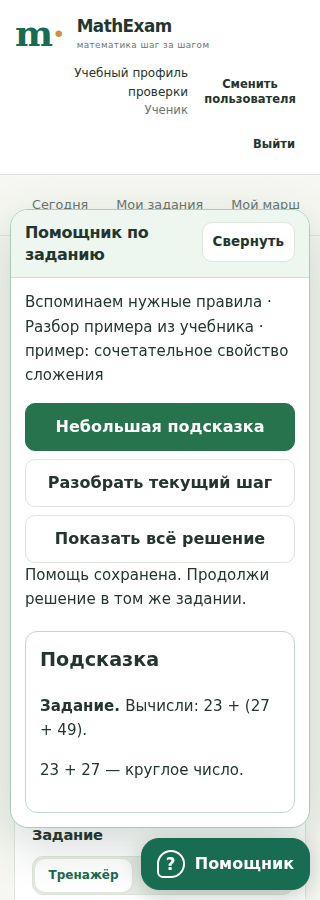
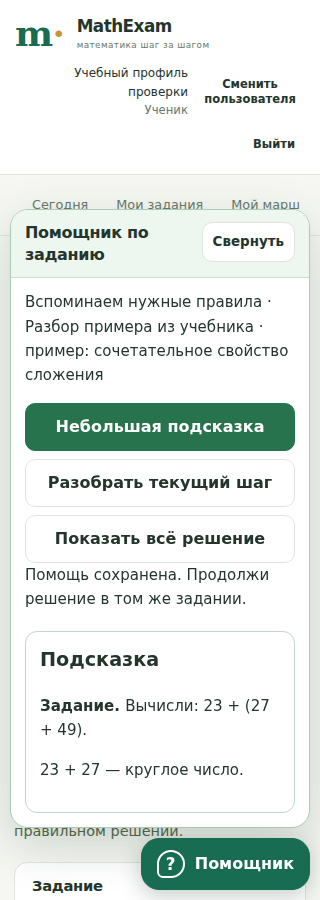
fix(learning): keep course catalogue return available in teacher and history views

Changed region(s): [[0.0625, 0.9022, 0.5625, 0.9333], [0.0938, 0.9644, 0.4375, 0.9956]]

diff --git a/learning/app.js b/learning/app.js
@@ -736,7 +736,18 @@ function updateOverview(){if(!overview||!activeLesson)return;if(overview.waiting
  $('sheet-tabs').innerHTML=Array.from({length:Math.ceil(seats.length/4)},(_,i)=>`<button data-sheet="${i}" aria-current="${sheet===i?'page':'false'}">Ученики ${i*4+1}–${Math.min(i*4+4,seats.length)}</button>`).join('');$('sheet-tabs').querySelectorAll('[data-sheet]').forEach(b=>b.onclick=()=>{sheet=Number(b.dataset.sheet);updateOverview();});}
 function lessonAssignmentDialog(selectedIds){if(credentialDisplay||credentialRequestBusy)return;const selected=selectedIds||activeLesson.seats.map(s=>s.learnerId);modal('Задание на урок',`<form id="lesson-assignment-form" class="form-stack"><label>Тренажёр<select name="content">${getItems().map(i=>`<option value="${E(i.id)}">${i.position?'№'+i.position+' · ':''}${E(i.title)}</option>`).join('')}</select></label><fieldset><legend>Ученики</legend><div class="checkbox-list">${[...activeLesson.seats,{learnerId:'common',name:'Общая доска'}].map(s=>`<label class="checkbox-row"><input type="checkbox" name="student" value="${E(s.learnerId)}" ${selected.includes(s.learnerId)?'checked':''}>${E(s.name)}</label>`).join('')}</div></fieldset><p>У каждого будет своя попытка с одинаковым условием.</p><p class="form-error" role="alert"></p><button class="primary" type="submit">Выдать на урок</button></form>`);bindAsyncForm('lesson-assignment-form',async form=>{const learnerIds=form.getAll('student');if(!learnerIds.length){$('lesson-assignment-form').querySelector('.form-error').textContent='Выберите ученика.';return;}const item=LearningCatalog.get(form.get('content'));const result=await lessonAction('assign',{learnerIds,trainerId:item.trainerId,contentId:item.contentId});if(!result)return;closeModal();await refreshData();updateOverview();toast('Задания подготовлены для урока.');});}
 function watchPanelMarkup(visible=true){return `<aside id="watch-panel" class="watch-panel" ${visible?'':'hidden'}><header class="watch-panel-header"><p class="eyebrow">ОБЩИЙ РАЗБОР</p><h2>Наталья Михайловна объясняет</h2><p id="watch-caption">Ваша личная работа сохраняется</p><button id="watch-expand" class="small">Развернуть объяснение ↗</button></header><div id="watch-placeholder" class="watch-placeholder">Когда преподаватель начнёт объяснение, здесь появится работа, которую разбирает группа.</div><div class="trainer-host" id="watch-trainer" hidden></div><div class="drawing-host" id="watch-drawing" hidden></div></aside>`;}
-function workspaceMarkup(a,lesson){const person=a.learnerId===a.teacherId?'Общая доска':students.find(s=>s.id===a.learnerId)?.name||account.name;return `<header class="workspace-heading"><a class="back-link" href="#${lesson?'lesson='+activeLesson.id:(window.ArithmeticCourse?.trackFor(a.contentId)||window.DivisionCourse?.has(a.contentId))?'division-course':'home'}" id="workspace-back">← ${lesson&&teacher()?'Все работы':lesson?'Мои занятия':(window.ArithmeticCourse?.trackFor(a.contentId)||window.DivisionCourse?.has(a.contentId))?'Умножение и деление':'Мой кабинет'}</a><div class="page-heading"><div><span class="badge neutral">${lesson?E(activeLesson.title)+' · '+E(person):teacher()?E(person):'Моя работа'}</span><h1>${E(titleFor(a))}</h1><p><span id="attempt-outcome">${E(labels[a.outcome]||'Начато')}</span> · <span id="save-state" class="save-state">Все изменения сохранены</span></p></div><div class="actions">${teacher()?'<button id="trainer-control">Подключиться к тренажёру</button>':''}${lesson&&teacher()?'<button id="present-work">Объяснять группе</button><button id="workspace-assign">Другое задание</button>':''}<button id="show-history">История решения</button><button id="conflict-download" hidden>Скачать неподтверждённое</button></div></div><p id="control-notice" class="notice" hidden></p><div id="archived-notice" class="notice" hidden>Результаты перенесены в архив. История решения сохранена. <a href="#course">Начать новую попытку в курсе →</a></div></header>${!teacher()&&a.trainerId!=='board'?'<section id="route-support" class="route-support" aria-label="Помощь и сдача работы"></section>':''}${lesson&&teacher()?'<nav id="workspace-roster" class="lesson-roster" aria-label="Переключить ученика"></nav>':''}<section id="history-bar" class="history-bar" hidden></section><div class="workspace-tabs segmented" role="group" aria-label="Работа и объяснение" ${lesson&&!teacher()?'':'hidden'}><button data-mobile-tab="own" aria-pressed="true">Моя работа</button><button data-mobile-tab="watch" aria-pressed="false">Наталья Михайловна объясняет</button></div><div class="work-columns" id="work-columns" data-mobile-view="own"><section class="work-panel"><header class="work-panel-header"><h2 id="work-panel-title">Задание</h2><div class="segmented" role="group" aria-label="Рабочее поле"><button data-work-view="trainer" aria-pressed="true">Тренажёр</button><button data-work-view="board" aria-pressed="false">Лист для решения</button></div></header><div class="trainer-host" id="trainer-host"></div><div id="drawing-panel" hidden><div class="board-tools" role="group" aria-label="Инструменты доски"><button id="pen" class="small" aria-pressed="true">Перо</button><button id="eraser" class="small" aria-pressed="false">Ластик</button><label><span class="sr-only">Цвет</span><input id="pen-color" type="color" value="${teacher()?'#16804c':'#23352d'}"></label><label>Толщина<input id="pen-width" type="range" min="1" max="12" value="3"></label><button id="undo-stroke" class="small">Отменить свой штрих</button></div><div class="drawing-host" id="drawing-host"></div></div></section>${watchPanelMarkup(lesson&&!teacher())}</div><div id="reference-host" class="reference-host"></div>`;}
+function workspaceMarkup(a,lesson){const person=a.learnerId===a.teacherId?'Общая доска':students.find(s=>s.id===a.learnerId)?.name||account.name;return `<header class="workspace-heading"><a class="back-link" href="#${lesson?'lesson='+activeLesson.id:(window.ArithmeticCourse?.trackFor(a.contentId)||window.DivisionCourse?.has(a.contentId))?'division-course':'home'}" id="workspace-back">← ${lesson&&teacher()?'Все работы':lesson?'Мои занятия':(window.ArithmeticCourse?.trackFor(a.contentId)||window.DivisionCourse?.has(a.contentId))?'Умножение и деление':'Мой кабинет'}</a><div class="page-heading"><div><span class="badge neutral">${lesson?E(activeLesson.title)+' · '+E(person):teacher()?E(person):'Моя работа'}</span><h1>${E(titleFor(a))}</h1><p><span id="attempt-outcome">${E(labels[a.outcome]||'Начато')}</span> · <span id="save-state" class="save-state">Все изменения сохранены</span></p></div><div class="actions">${a.trainerId==='vilenkin6-textbook'?'<a id="workspace-vilenkin-catalog" class="button" href="#vilenkin-textbook">← Все темы курса</a>':''}${teacher()?'<button id="trainer-control">Подключиться к тренажёру</button>':''}${lesson&&teacher()?'<button id="present-work">Объяснять группе</button><button id="workspace-assign">Другое задание</button>':''}<button id="show-history">История решения</button><button id="conflict-download" hidden>Скачать неподтверждённое</button></div></div><p id="control-notice" class="notice" hidden></p><div id="archived-notice" class="notice" hidden>Результаты перенесены в архив. История решения сохранена. <a href="#course">Начать новую попытку в курсе →</a></div></header>${!teacher()&&a.trainerId!=='board'?'<section id="route-support" class="route-support" aria-label="Помощь и сдача работы"></section>':''}${lesson&&teacher()?'<nav id="workspace-roster" class="lesson-roster" aria-label="Переключить ученика"></nav>':''}<section id="history-bar" class="history-bar" hidden></section><div class="workspace-tabs segmented" role="group" aria-label="Работа и объяснение" ${lesson&&!teacher()?'':'hidden'}><button data-mobile-tab="own" aria-pressed="true">Моя работа</button><button data-mobile-tab="watch" aria-pressed="false">Наталья Михайловна объясняет</button></div><div class="work-columns" id="work-columns" data-mobile-view="own"><section class="work-panel"><header class="work-panel-header"><h2 id="work-panel-title">Задание</h2><div class="segmented" role="group" aria-label="Рабочее поле"><button data-work-view="trainer" aria-pressed="true">Тренажёр</button><button data-work-view="board" aria-pressed="false">Лист для решения</button></div></header><div class="trainer-host" id="trainer-host"></div><div id="drawing-panel" hidden><div class="board-tools" role="group" aria-label="Инструменты доски"><button id="pen" class="small" aria-pressed="true">Перо</button><button id="eraser" class="small" aria-pressed="false">Ластик</button><label><span class="sr-only">Цвет</span><input id="pen-color" type="color" value="${teacher()?'#16804c':'#23352d'}"></label><label>Толщина<input id="pen-width" type="range" min="1" max="12" value="3"></label><button id="undo-stroke" class="small">Отменить свой штрих</button></div><div class="drawing-host" id="drawing-host"></div></div></section>${watchPanelMarkup(lesson&&!teacher())}</div><div id="reference-host" class="reference-host"></div>`;}
+// Course navigation belongs to the cabinet shell, outside the read-only work.
+// It never transfers control, changes the attempt, or relaxes the frame guards.
+function bindVilenkinCatalogReturn(a){
+ const link=$('workspace-vilenkin-catalog');if(!link)return;
+ const actor=account.id,revision=authRevision,serial=routeNumber,route=activeRoute(),view=workspace;
+ link.addEventListener('click',event=>{
+  event.preventDefault();
+  if(!link.isConnected||account?.id!==actor||authRevision!==revision||routeNumber!==serial||activeRoute()!==route||workspace!==view||activeAttempt?.id!==a.id||identityLocked||authMutationBusy||quickLoginBusy)return;
+  if(canLeaveAttempt())navigate('vilenkin-textbook');
+ });
+}
 function mountWorkspace(a,{lesson=false,learnerId=null}={}){main.innerHTML=workspaceMarkup(a,lesson);workspace={id:a.id,lesson,learnerId,frame:null,draw:null,watchFrame:null,watchDraw:null,watchId:null,history:null,reference:null,historyLoading:false};const editable=owns(a),item=itemFor(a);if(item)workspace.frame=new LearningTrainerFrame($('trainer-host'),{item,attempt:effective(a),readOnly:!editable,onChange:trainerChange});else $('trainer-host').innerHTML='<div class="blank-board">Для этого задания пока нет подключённого тренажёра.</div>';
  workspace.draw=new LearningDrawing($('drawing-host'),{actorId:account.id,color:teacher()?'#16804c':'#23352d',onStroke:s=>action(workspace.id,'stroke',s),onErase:id=>action(workspace.id,'erase',{strokeId:id})});
  main.querySelectorAll('[data-work-view]').forEach(b=>b.onclick=()=>{const board=b.dataset.workView==='board';$('drawing-panel').hidden=!board;$('trainer-host').hidden=board;main.querySelectorAll('[data-work-view]').forEach(x=>x.setAttribute('aria-pressed',String(x===b)));workspace.draw.draw();});
@@ -747,6 +758,7 @@ function mountWorkspace(a,{lesson=false,learnerId=null}={}){main.innerHTML=works
  $('watch-expand')?.addEventListener('click',()=>{const expanded=$('work-columns').classList.toggle('watch-expanded');$('watch-expand').textContent=expanded?'Вернуться к двум окнам':'Развернуть объяснение ↗';workspace.watchFrame?.fit();workspace.watchDraw?.draw();});
  if($('workspace-roster')){$('workspace-roster').innerHTML=[...activeLesson.seats,{learnerId:'common',name:'Общая доска'}].map(s=>`<button data-workspace-seat="${E(s.learnerId)}" aria-current="${s.learnerId===learnerId}">${E(s.name)}</button>`).join('');$('workspace-roster').querySelectorAll('[data-workspace-seat]').forEach(b=>b.onclick=()=>openSeat(b.dataset.workspaceSeat));}
  $('present-work')?.addEventListener('click',()=>lessonAction('present',{target:activeLesson.presentation?.target===workspace.learnerId?null:workspace.learnerId}));
+ bindVilenkinCatalogReturn(a);
  $('show-history').onclick=showHistory;$('conflict-download').onclick=exportUnsent;
  $('workspace-back').onclick=async e=>{if(lesson&&teacher()&&activeLesson.presentation?.target){e.preventDefault();await lessonAction('present',{target:null});navigate('lesson='+activeLesson.id);}};
  if(window.LearningReferences&&a.taskSpec&&!itemFor(a)?.grade6&&!itemFor(a)?.grade7)workspace.reference=LearningReferences.mount($('reference-host'),{taskSpec:a.taskSpec,mode:'practice',onReference:()=>{if(!workspace.history)action(a.id,'reference',{id:'fipi-2027'});},onHelp:async(level,details)=>{if(!owns(activeAttempt)||workspace.history){toast('Сейчас просмотр работы.');return false;}return await action(a.id,'hint',{});}});
@@ -791,7 +803,7 @@ async function nextDivisionTask(){
   if(opened)divisionNextRequests.delete(key);
  }finally{request.pending=false;recover();}
 }
-function trainerChange(change){const a=activeAttempt,{kind,details,state}=change;if(workspace&&a&&(kind==='newtask'||kind==='new-task')&&a.trainerId==='oge-basics'&&(a.taskSpec?.family==='division'||a.taskSpec?.family==='multiplication'||!!window.ArithmeticCourse?.trackFor(a.contentId))){nextDivisionTask();return;}if(!workspace||workspace.history||!owns(a))return;if(kind==='navigate'&&details?.target==='vilenkin-textbook-catalog'&&a.trainerId==='vilenkin6-textbook'){if(!teacher()&&canLeaveAttempt())navigate('vilenkin-textbook');return;}if(kind==='newtask'||kind==='new-task'){if(teacher()){toast('Чтобы выдать новый вариант, выберите задание на урок.');return;}if(queuedFor(a.id).length){toast('Сначала дождитесь сохранения текущей работы.');return;}const context=new URLSearchParams(activeRoute());openContent(itemFor(a).id,{fresh:true,sourceAttemptId:a.id,returnTo:context.get('returnTo'),topicId:context.get('topic')});return;}const type=kind==='check'?'check':kind==='hint'?'hint':kind==='reference'?'reference':'state';const payload=type==='state'?{state}:type==='check'?{state,details}:type==='hint'?{state,...(Number.isInteger(details.step)?{step:details.step}:{})}:{id:String(details.id||'reference')};action(a.id,type,payload);}
+function trainerChange(change){const a=activeAttempt,{kind,details,state}=change;if(workspace&&a&&(kind==='newtask'||kind==='new-task')&&a.trainerId==='oge-basics'&&(a.taskSpec?.family==='division'||a.taskSpec?.family==='multiplication'||!!window.ArithmeticCourse?.trackFor(a.contentId))){nextDivisionTask();return;}if(!workspace||workspace.history||!owns(a))return;if(kind==='navigate'&&details?.target==='vilenkin-textbook-catalog'&&a.trainerId==='vilenkin6-textbook'){if(canLeaveAttempt())navigate('vilenkin-textbook');return;}if(kind==='newtask'||kind==='new-task'){if(teacher()){toast('Чтобы выдать новый вариант, выберите задание на урок.');return;}if(queuedFor(a.id).length){toast('Сначала дождитесь сохранения текущей работы.');return;}const context=new URLSearchParams(activeRoute());openContent(itemFor(a).id,{fresh:true,sourceAttemptId:a.id,returnTo:context.get('returnTo'),topicId:context.get('topic')});return;}const type=kind==='check'?'check':kind==='hint'?'hint':kind==='reference'?'reference':'state';const payload=type==='state'?{state}:type==='check'?{state,details}:type==='hint'?{state,...(Number.isInteger(details.step)?{step:details.step}:{})}:{id:String(details.id||'reference')};action(a.id,type,payload);}
 function updateMultiplicationSupport(attempt,editable){
  const host=$('route-support');if(!host)return;
  let panel=$('multiplication-step-support');

diff --git a/courses/vilenkin-6-part-1/textbook-course.js b/courses/vilenkin-6-part-1/textbook-course.js
@@ -17,6 +17,7 @@
     if(managed&&link.getAttribute('href')==='#'){
       link.dataset.managedCourseCatalog='';
       link.setAttribute('aria-label','Все темы курса в кабинете');
+      link.setAttribute('aria-disabled',String(managedReadonly||!managedReady));
       link.addEventListener('click',event=>{
         event.preventDefault();
         if(viewIsCurrent(epoch,hash))managedNotify({kind:'navigate',details:{target:'vilenkin-textbook-catalog'},state:managedSnapshot()});
@@ -230,13 +231,14 @@
   function managedAccess(value){
     managedReadonly=!!value;main.inert=managedReadonly||!managedReady;
     document.body.dataset.managedReadonly=String(managedReadonly);
+    main.querySelectorAll('[data-managed-course-catalog]').forEach(link=>link.setAttribute('aria-disabled',String(managedReadonly||!managedReady)));
   }
   function initManaged(){
     document.body.classList.add('managed');
     main.innerHTML='<h1>Задание из учебника</h1><p role="status">Открываем сохранённую работу из кабинета…</p>';
     document.querySelector('.site-header nav')?.replaceChildren();
     const brand=document.querySelector('.site-header .brand');if(brand)brand.removeAttribute('href');
-    const note=document.createElement('p');note.className='managed-course-note';note.textContent='Ответы, шаги и подсказки сохраняются в этой работе. Нажми «Все темы», чтобы вернуться в каталог курса.';main.before(note);
+    const note=document.createElement('p');note.className='managed-course-note';note.textContent='Работа сохраняется в кабинете. Вернуться к каталогу можно по ссылке «Все темы курса» над заданием.';main.before(note);
     announceStorage(true);managedAccess(true);
     if(!window.MathExamLearning?.enabled||!window.VilenkinTextbookLearning?.createFactory){
       main.innerHTML='<h1>Открой задание из кабинета</h1><p>Связь с кабинетом не установлена. Сохранённые работы остаются на сервере.</p>';return;

diff --git a/courses/vilenkin-6-part-1/textbook.html b/courses/vilenkin-6-part-1/textbook.html
@@ -6,7 +6,7 @@
   <meta name="description" content="Математика, 6 класс. Объяснения по шагам и настоящие задания учебника Виленкина, часть 1, 2024 год.">
   <title>Виленкин, 6 класс · Учимся по учебнику</title>
   <link rel="canonical" href="https://mathexam.space/courses/vilenkin-6-part-1/textbook.html">
-  <link rel="stylesheet" href="textbook-course.css?v=vilenkin-course-navigation-20261101">
+  <link rel="stylesheet" href="textbook-course.css?v=vilenkin-course-return-20261101">
   <link rel="stylesheet" href="textbook-support.css?v=vilenkin-course-navigation-20261101">
   <script defer src="textbook-source-labels.js?v=vilenkin-textbook-20261030"></script>
   <script defer src="textbook-support.js?v=vilenkin-course-navigation-20261101"></script>
@@ -14,7 +14,7 @@
   <script defer src="../../trainers/learning-bridge.js"></script>
   <script defer src="../../learning/vilenkin6-textbook-catalog.js?v=vilenkin-textbook-20261030"></script>
   <script defer src="textbook-learning-contracts.js?v=vilenkin-textbook-20261030"></script>
-  <script defer src="textbook-course.js?v=vilenkin-course-navigation-20261101"></script>
+  <script defer src="textbook-course.js?v=vilenkin-course-return-20261101"></script>
 </head>
 <body>
   <a class="skip-link" href="#main">Перейти к заданию</a>

diff --git a/learning/index.html b/learning/index.html
@@ -68,7 +68,7 @@
   <script defer src="atanasyan-first-steps/state.js?v=ichenskaya-works-20261028"></script>
   <script defer src="atanasyan-first-steps/app.js?v=geometry-helper-clarity-20261028"></script>
   <script defer src="ichenskaya-grade7-works/app.js?v=ichenskaya-works-20261028"></script>
-  <script defer src="app.js?v=vilenkin-course-navigation-20261101"></script>
+  <script defer src="app.js?v=vilenkin-course-return-20261101"></script>
 </head>
 <body>
   <a class="skip-link" href="#main">К содержанию</a>

diff --git a/courses/vilenkin-6-part-1/textbook-course.css b/courses/vilenkin-6-part-1/textbook-course.css
@@ -6,3 +6,4 @@
 [data-managed-course-catalog]{display:inline-flex;align-items:center;min-height:44px;padding:8px 14px;border:1px solid #b6d4c2;border-radius:9px;background:#eaf5ee;color:#176a48;font-weight:700;text-decoration:none}
 [data-managed-course-catalog]:hover{background:#dbefdf}
 [data-managed-course-catalog]:focus-visible{outline:3px solid #176a48;outline-offset:3px}
+[data-managed-course-catalog][aria-disabled="true"]{opacity:.5;cursor:default}

diff --git a/docs/reports/VILENKIN_COURSE_NAVIGATION_20261101.md b/docs/reports/VILENKIN_COURSE_NAVIGATION_20261101.md
@@ -23,6 +23,11 @@ published head and later exact-head CI; this document does not claim a release.
   existing authenticated frame navigation event. A pending/rejected save blocks
   leaving and shows the existing message. After saving, clicking again returns
   safely; the same task and draft can be resumed.
+- A real “Все темы курса” link above the task also works for teachers and
+  read-only history views. It uses the existing cabinet catalogue route and
+  save guard, without changing answers, control, history or attempt counts.
+  The protected inner breadcrumb is visibly disabled in read-only mode; the
+  banner points to the available cabinet link above it.
 - Fraction tasks expose the existing factorization-based LCM trainer beside
   answer/help controls. The label explicitly says it is a separate example.
   Opening it records use of help, preserves the current fractions and draft,
@@ -57,14 +62,14 @@ entry to the existing LCM trainer within this presentation/navigation scope.
 | Existing textbook backend and source-help backend | 15 + 10 cases PASS |
 | Source inventory and catalog generation | PASS: 24 units, 194 cards, 615 steps, 25 figure uses; generated catalog exact |
 | Full existing textbook DOM | PASS: 194 views, 25 source figures, 30 recorded learner journeys |
-| New browser course/UI gate | `VILENKIN_COURSE_UI_BROWSER_OK`: 8 grouped checks, 320/390/1280 × 900 |
+| New browser course/UI gate | `VILENKIN_COURSE_UI_BROWSER_OK`: 10 grouped checks, 320/390/1280 × 900, including teacher/read-only/history catalogue return |
 | Existing source-helper browser regression | 7 grouped checks PASS: delayed ACK, permissions, reload, exam race and post-result credit |
 | Syntax, bounded diff, whitespace and source identity | PASS |
 
-The Node runner reports file-level aggregates when invoked in separate test
-processes; counts above name the individual registered cases. The helper's
-additional fourteenth case was rerun after the visual status correction. The
-final integrated browser run binds the actual final files by SHA256.
+The continuation ran the 44 focused and 25 backend cases with
+`--test-isolation=none`: 69 individually reported passes, zero failures or
+skips. The 44 focused cases were rerun after the final accessibility/caption
+correction. The integrated browser run binds the final files by SHA256.
 
 Browser tests use local HTTP origins, real API/SQLite and synthetic accounts.
 External traffic is blocked. The final UI run records zero external requests,
@@ -74,8 +79,8 @@ records. No TLS verification was disabled.
 ### Browser and image evidence
 
 The [browser result](vilenkin-course-navigation-20261101/browser-result.json)
-binds 12 exact images and all 12 relevant source files with SHA256. The harness
-compares source hashes at start/end. All 12 final images received actual visual
+binds 14 exact images and all 12 relevant source files with SHA256. The harness
+compares source hashes at start/end. All 14 final images received actual visual
 inspection; root additionally inspected course, topic, task helper and fraction
 practice views. Earlier development captures and a failed test screenshot are
 not included in this final image registry.
@@ -86,6 +91,8 @@ not included in this final image registry.
 - [Course helper](vilenkin-course-navigation-20261101/course-helper-390.png)
 - [Task helper](vilenkin-course-navigation-20261101/task-helper-320.png)
 - [Fraction task and LCM practice](vilenkin-course-navigation-20261101/fraction-practice-1280.png)
+- [320 px return from history](vilenkin-course-navigation-20261101/history-catalog-return-320.png)
+- [Teacher catalogue return](vilenkin-course-navigation-20261101/teacher-catalog-return-1280.png)
 
 The fixed launcher can overlap the edge of a partially visible card at the
 bottom while scrolling. Every final action can scroll clear of it; the browser
@@ -111,6 +118,38 @@ MEDIUM presentation/navigation scope; PR389's exception is not reused.
 3. The first harness assumed every typed answer lived in the final draft field.
    Guided examples correctly save the current step draft. The test was corrected
    to check the active mode; no product data-loss issue was found or hidden.
+4. Continuation review found that the original return handled pupils but
+   explicitly ignored an editable teacher. Read-only/history views also had
+   no catalogue exit outside the protected frame. The cabinet link now uses
+   the existing teacher-capable `#vilenkin-textbook` route; the inner link also
+   accepts the already-owned editable teacher event. No frame/read-only guard
+   or mutation contract was weakened. Independent focused review of the final
+   navigation and accessibility changes found no remaining blocker.
+
+## Continuation evidence
+
+The existing PR392 branch was recovered after the prior conversation ended.
+The new checks use Chromium 140.0.7339.16, Playwright 1.62.1 and Node 24.22.1
+with real local API/SQLite and synthetic accounts; this is not a pupil trial.
+The original CI runtime is separately recorded by GitHub.
+
+The extended browser scenarios verify a held save, history return and exact
+resume, stale detached links, a teacher observing read-only work, and an
+editable teacher's inner breadcrumb. They compare complete saved attempts and
+history and assert no navigation writes or duplicate attempts. The original
+source-helper browser checks were also rerun. A temporary save-notice toast
+is allowed to clear normally before the history screenshot.
+
+The teacher catalogue remains the existing general catalogue. Returning there
+does not preselect a pupil for a later assignment. History and read-only
+trainers remain inert; their available exit is the cabinet link above them.
+
+Before this continuation, all 15 workflows for the original head
+`f5d20e57483069612d7c4c31390c4b8e4c38eeb5` completed: 13 successful and two
+unchanged geometry-source failures. Those results are historical evidence,
+not checks on a later head. Fresh HTTPS checks confirmed the live cabinet and
+public course still served the previous navigation code. Both publication
+surfaces must receive their new resources during a later authorized release.
 
 ## Remaining checks and release
 
@@ -132,7 +171,7 @@ PR: Draft PR URL and published head recorded after this local report
 Base: a8eb6b26c917c337a3f9672c0b8eb40243f6e6a3
 Head: Exact published identity recorded in the Draft PR
 Gate: VILENKIN_COURSE_NAVIGATION_OK locally; CI/release separate
-Tests: 44 focused cases; 25 backend; 194 views/30 journeys; 8+7 browser groups
+Tests: 44 focused cases; 25 backend; 194 managed identities; 10+7 browser groups; 14 inspected screenshots
 Failures: No remaining local product finding; corrected review/harness findings above
 Not run: Production, real pupil changes, physical/other-browser trials, external review
 Scope deviations: None; direct owner follow-ups are included in this UI correction

diff --git a/docs/tasks/VILENKIN_COURSE_NAVIGATION_20261101.md b/docs/tasks/VILENKIN_COURSE_NAVIGATION_20261101.md
@@ -46,6 +46,10 @@ existing learning material and every saved task identity.
   inside saved tasks, using one bottom-right launcher with accessible controls.
 - Restore the managed task’s “Все темы” link to the cabinet catalogue using
   the existing bridge navigation event and save guard.
+- Provide a real cabinet-owned “Все темы курса” link above the task for
+  teachers and read-only/history views as well as pupils. Keep the existing
+  frame mutation guards, saved-work identities and pending/rejected-save
+  protection; browsing the catalogue creates no work and transfers no control.
 - Expose the existing LCM practice trainer beside fraction-task controls,
   explicitly labelled as a separate example, with existing help provenance.
 - Focused DOM/browser regression, visual review, task/report/status documents
@@ -70,6 +74,8 @@ existing learning material and every saved task identity.
 - [x] 320/390/1280 px views fit, keyboard controls work, panels can close and
   focused/last-page actions remain reachable above the dock.
 - [x] Existing task source data, legacy modules and saved identities are exact.
+- [x] Catalogue return remains available outside the protected frame in
+  teacher and history views, without changing the saved attempt or controller.
 
 ## Checks and gates
 

diff --git a/docs/PROJECT_STATUS.md b/docs/PROJECT_STATUS.md
@@ -11,7 +11,9 @@
   Navigation help is available on course pages; saved-task help retains its
   existing source-confirmation and access checks.
 - Managed “Все темы” returns to the cabinet catalogue through the existing
-  authenticated frame bridge, after the current work is saved. A contextual
+  authenticated frame bridge, after the current work is saved. A cabinet-owned
+  “Все темы курса” link also works while a teacher views a pupil's work or a
+  pupil reads history, keeping all frame mutation guards intact. A contextual
   link in fraction tasks opens the existing step-by-step LCM trainer on a
   separate example; it does not implement a new 75/30 worksheet.
 - All 194 original cards, 615 authored steps, 27 legacy modules, source hashes,
